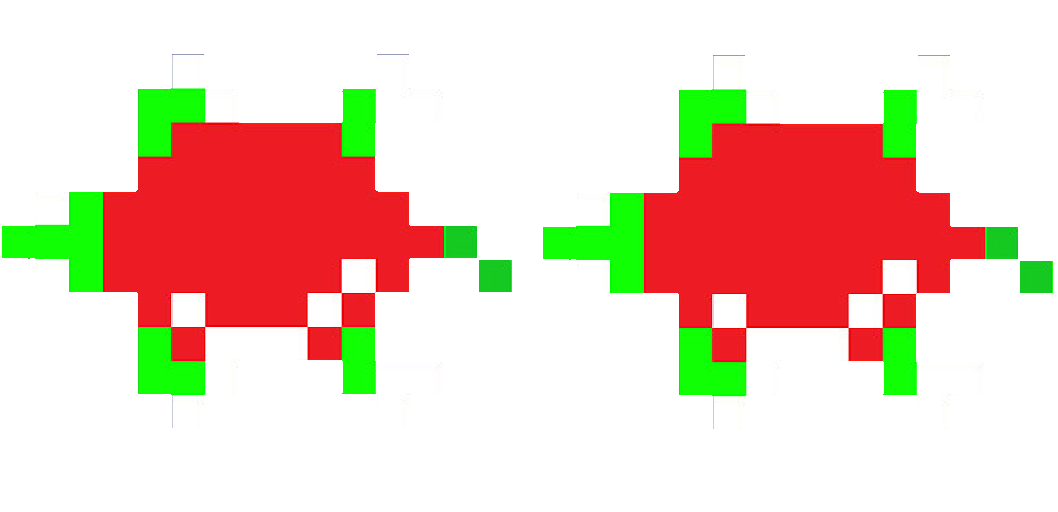
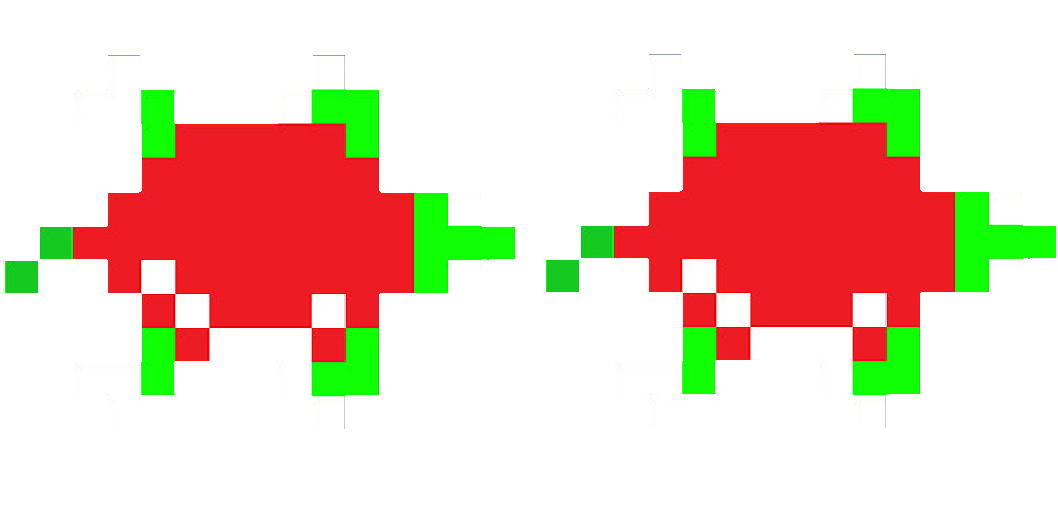
Added checkCollision. Also added main menu and restart button.

diff --git a/src/Game.java b/src/Game.java
@@ -1,7 +1,10 @@
 import javafx.animation.AnimationTimer;
+import javafx.event.ActionEvent;
 import javafx.scene.Scene;
 import javafx.scene.input.KeyCode;
 import javafx.scene.layout.Pane;
+import javafx.scene.canvas.Canvas;
+import javafx.scene.control.Button;
 
 import javax.swing.*;
 import java.awt.*;
@@ -10,20 +13,25 @@ import java.awt.event.KeyListener;
 import java.time.Duration;
 import java.time.temporal.ChronoUnit;
 
+import static javafx.scene.shape.Shape.intersect;
+
 public class Game {
     private Frog player;
     private final Background background;
+    private AnimationTimer timer;
     private final Pane pane;
+    private final Scene scene;
     public Game(Pane pane, Scene scene) {
         this.pane = pane;
-        keyListener(scene);
+        this.scene = scene;
+        keyListener(this.scene);
         this.background = new Background(pane);
         this.player = new Frog();
-        pane.getChildren().addAll(this.player.getFrog());
+        this.pane.getChildren().addAll(this.player.getFrog());
     }
 
     public void play() {
-        AnimationTimer timer = new AnimationTimer() {
+        this.timer = new AnimationTimer() {
             private Duration lastUpdate = Duration.of(10, ChronoUnit.NANOS);
             @Override
             public void handle(long now) {
@@ -31,20 +39,46 @@ public class Game {
                 if (nowDur.minus(lastUpdate).toMillis() > 25) {
                     lastUpdate = nowDur;
                     background.move();
+                    checkCollisions();
                 }
             }
         };
-        timer.start();
+        this.timer.start();
     }
 
+    public void checkCollisions() {
+        BackgroundPiece[][] pieces = this.background.getBackgroundPieces();
+        for (int i = 0; i < pieces.length; i++) {
+            for(int j = 0; j < pieces[i].length; j++) {
+                if (pieces[i][j] != null && this.player.getFrog().intersects(pieces[i][j].getShape().getBoundsInLocal())) {
+                    lose();
+                    break;
+                }
+            }
+        }
+    }
     private void keyListener(Scene scene) {
         scene.setOnKeyPressed(ke -> {
             KeyCode keyCode = ke.getCode();
             if (keyCode.isArrowKey()) {
                 player.moveFrog(keyCode);
-                return;
-            } else
-                return;
+                checkCollisions();
+            }
+        });
+    }
+    private void lose() {
+        this.timer.stop();
+        this.pane.getChildren().removeAll();
+        Button btn = new Button("Play again?");
+        btn.setPrefSize(100,50);
+        btn.setTranslateX(350);
+        btn.setTranslateY(325);
+        this.pane.getChildren().add(btn);
+
+        btn.setOnAction((ActionEvent event) -> {
+            this.pane.getChildren().remove(btn);
+            Game frogger = new Game(this.pane, this.scene);
+            frogger.play();
         });
     }
 }

diff --git a/src/FroggerGame.java b/src/FroggerGame.java
@@ -1,9 +1,17 @@
 import javafx.application.Application;
+import javafx.event.ActionEvent;
+import javafx.scene.Node;
 import javafx.scene.Scene;
+import javafx.scene.canvas.Canvas;
+import javafx.scene.control.Button;
 import javafx.scene.control.Label;
 import javafx.scene.control.TextField;
+import javafx.scene.image.Image;
+import javafx.scene.image.ImageView;
 import javafx.scene.input.KeyCode;
 import javafx.scene.layout.Pane;
+import javafx.scene.layout.StackPane;
+import javafx.scene.layout.VBox;
 import javafx.stage.Stage;
 
 import javax.swing.*;
@@ -22,14 +30,23 @@ public class FroggerGame extends Application {
         Pane background = new Pane();
         background.setMinWidth(800);
         background.setMinHeight(700);
+        background.setStyle("-fx-background-color: black;");
+        Button btn = new Button("Play Game");
+        btn.setPrefSize(200,100);
+        btn.setTranslateX(300);
+        btn.setTranslateY(300);
+        ImageView img = new ImageView("/image/logo.png");
+        background.getChildren().addAll(btn, img);
 
         Scene scene = new Scene(background, 800, 700);
-        Game frogger = new Game(background, scene);
-
         stage.setScene(scene);
         stage.show();
 
-        frogger.play();
+        btn.setOnAction((ActionEvent event) -> {
+            background.getChildren().removeAll(btn, img);
+            Game frogger = new Game(background, scene);
+            frogger.play();
+        });
     }
 }
 

diff --git a/src/Background.java b/src/Background.java
@@ -5,7 +5,7 @@ import java.util.Random;
 
 public class Background {
     private final Rectangle[] background;
-    private final BackgroundPiece[][] backgroundPieces;
+    private BackgroundPiece[][] backgroundPieces;
     private final int[] pieces = new int[]{0, 4, 4, 3, 3, 5, 0, 2, 3, 3, 3, 3, 0};
     private final double[] speed;
     public Background(Pane pane) {
@@ -15,8 +15,8 @@ public class Background {
 
         // Create the background stripes
         for(int i = 0; i < this.background.length; i++) {
-            this.background[i] = new Rectangle(700,50);
-            this.background[i].setX(50);
+            this.background[i] = new Rectangle(800,50);
+            this.background[i].setX(0);
             this.background[i].setY(i*50 + 25);
             if(i > 0 && i <= 5) { this.background[i].setFill(Paint.valueOf("Blue")); }
             else if(i > 6 && i <= 11) { this.background[i].setFill(Paint.valueOf("Black")); }
@@ -80,4 +80,5 @@ public class Background {
         }
     }
     public Rectangle[] getBackground() { return this.background; }
+    public BackgroundPiece[][] getBackgroundPieces() { return this.backgroundPieces; }
 }

diff --git a/src/LeftMover.java b/src/LeftMover.java
@@ -5,7 +5,6 @@ public class LeftMover extends BackgroundPiece{
     public LeftMover(int row, int width, Image img, int spacing) {
         super(row, direction, width, img);
         super.setX(spacing);
-        super.setRotate(180);
     }
 
     @Override

diff --git a/src/VehicleFactory.java b/src/VehicleFactory.java
@@ -37,4 +37,7 @@ public class VehicleFactory implements LocationFactory {
         }
         return new LeftMover(row, width, img, spacing + width);
     }
+    public void addListener() {
+
+    }
 }
